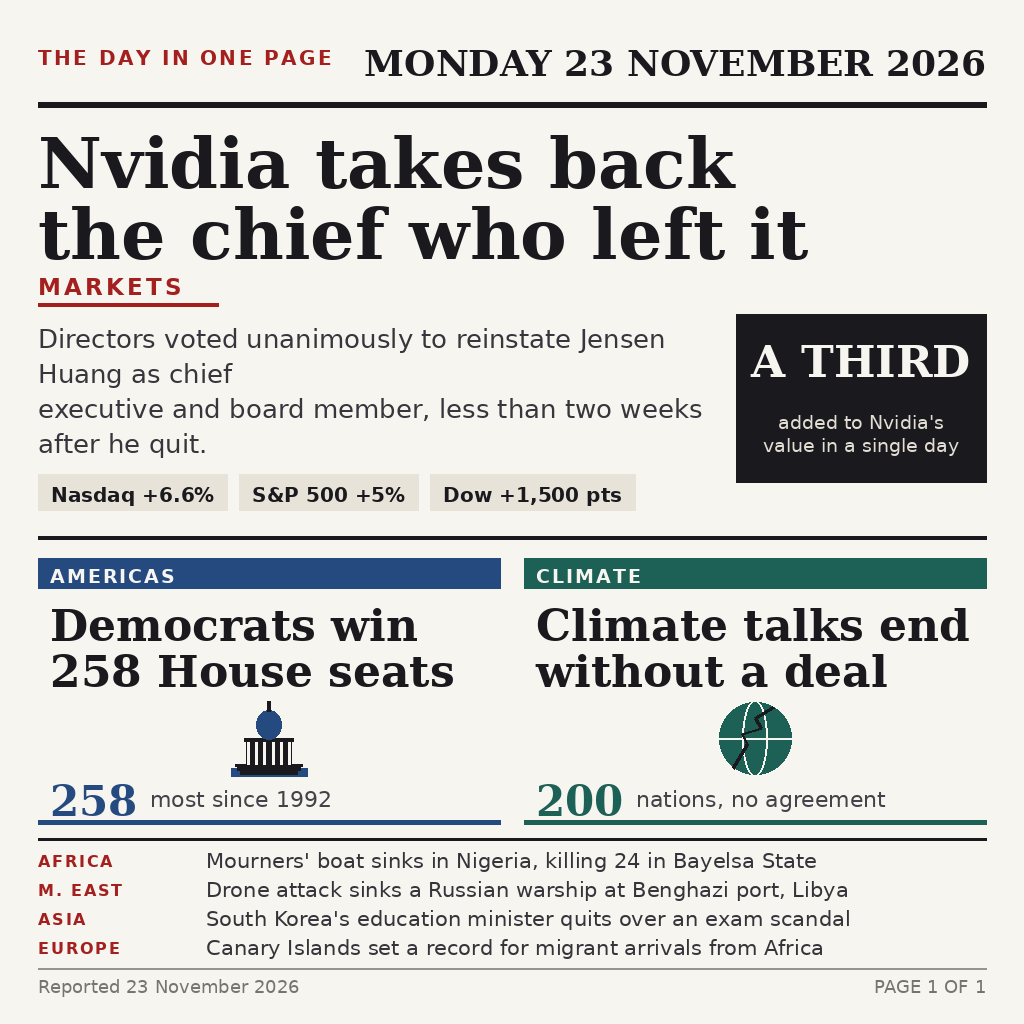
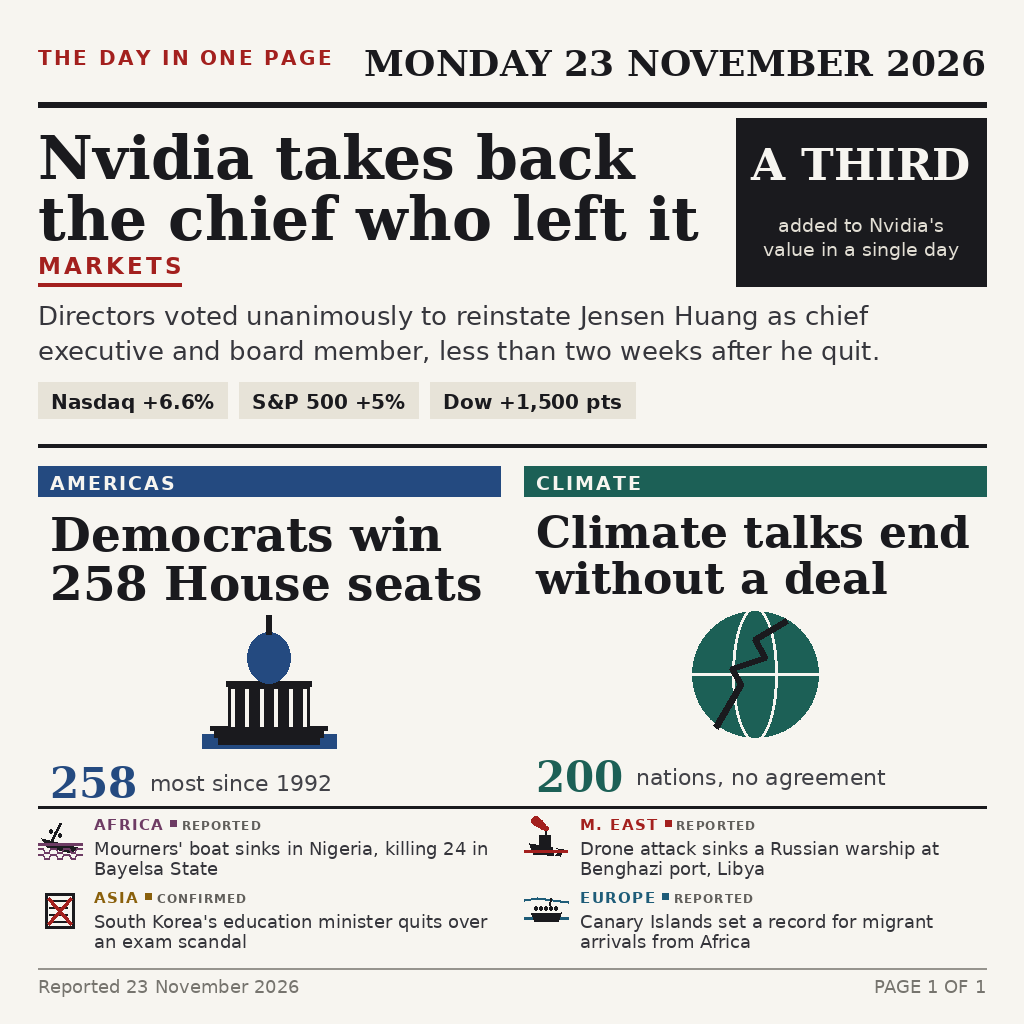
Illustrate the four briefs and rebalance the top band
Every brief now carries its own pictogram, and the boat, warship and
crossing marks were redrawn so they read as a sinking, a hull breach and
an overladen craft rather than as a generic vessel. The figure panel
moves up beside the lead headline, which closes the blank square in the
top-right corner and lets the body copy run the full measure. The
MARKETS underline is measured to its word instead of a fixed 180px.

Changed region(s): [[0.0312, 0.0938, 0.9688, 0.9375]]

diff --git a/render/page.py b/render/page.py
@@ -18,8 +18,9 @@ TINT = {
     "AMERICAS": BLUE,
     "CLIMATE": GREEN,
     "AFRICA": PLUM,
+    "M. EAST": RED,
     "MIDDLE EAST": RED,
-    "ASIA": GOLD,
+    "ASIA": (138, 96, 12),
     "EUROPE": (30, 92, 120),
     "EAST ASIA": GOLD,
     "SOUTH ASIA": (150, 78, 30),
@@ -53,7 +54,17 @@ def make():
     y += 20
 
     # ---------------- lead headline ----------------
-    f_lead = font(SERIFB, 70)
+    # The headline shares the top band with the figure panel, so it is set to
+    # the column that is left over rather than to the full measure.  That keeps
+    # the page's top-right corner working instead of leaving a blank square.
+    pan_w, pan_h = 250, 168
+    pan_x = W - M - pan_w
+    lead_w = pan_x - M - 28
+    ls = 70
+    while any(w(d, ln, font(SERIFB, ls)) > lead_w for ln in deck.LEAD["lines"]) and ls > 34:
+        ls -= 1
+    f_lead = font(SERIFB, ls)
+    lead_top = y
     for ln in deck.LEAD["lines"]:
         d.text((M, y), ln, font=f_lead, fill=INK)
         y += f_lead.size * 1.02
@@ -61,14 +72,13 @@ def make():
     y += 8
     f_kick = font(BOLD, 23)
     draw_caps(d, (M, y), deck.LEAD["kicker"], f_kick, RED, tracking=3.2)
-    rule(d, y + 31, x0=M, x1=M + 180, thick=3, fill=RED)
+    kick_w = caps(d, deck.LEAD["kicker"], f_kick, 3.2)
+    rule(d, y + 31, x0=M, x1=M + kick_w, thick=3, fill=RED)
 
     # ---------------- lead body + figure panel ----------------
-    body_top = y + 50
-    pan_w, pan_h = 250, 168
-    pan_x = W - M - pan_w
-    pan_y = body_top - 8
-
+    # The panel sits beside the headline, in the corner that was empty, and the
+    # body runs the full measure underneath both.
+    pan_y = lead_top - 4
     d.rectangle([pan_x, pan_y, pan_x + pan_w, pan_y + pan_h], fill=INK)
     fig_s = 54
     while w(d, deck.LEAD["figure"], font(SERIFB, fig_s)) > pan_w - 28 and fig_s > 26:
@@ -81,11 +91,11 @@ def make():
     block(d, (pan_x + 20, pan_y + 96), fl, f_fn, (226, 222, 212), lead=1.24, align="center", width=pan_w - 40)
 
     f_body = font(SANS, 26)
-    body_w = pan_x - M - 24
+    body_w = W - 2 * M
     body_lines = []
     for para in deck.LEAD["body"]:
         body_lines += wrap(d, para, f_body, body_w)
-    by = body_top
+    by = y + 48
     for ln in body_lines:
         d.text((M, by), ln, font=f_body, fill=(54, 54, 60))
         by += 35
@@ -106,8 +116,8 @@ def make():
 
     # ---------------- two cards, one row ----------------
     cw = (ix - GUT) // 2
-    art_h = 76
-    head_sz = 44
+    art_h = 134
+    head_sz = 48
     head_h = head_sz * 1.04 * 2
     card_h = 30 + 8 + head_h + 10 + art_h + 10 + 40
 
@@ -137,24 +147,66 @@ def make():
         fy = art_box[3] + 10
         f_num = font(SERIFB, 42)
         numw = w(d, card["figure"], f_num)
-        d.text((x0 + 12, fy - 10), card["figure"], font=f_num, fill=tint)
+        d.text((x0 + 12, fy), card["figure"], font=f_num, fill=tint)
         f_cap = font(SANS, 22)
         cl = wrap(d, card["line"], f_cap, cw - numw - 40)
-        block(d, (x0 + 24 + numw, fy), cl[:2], f_cap, (66, 66, 72), lead=1.12)
+        # the caption's first baseline is matched to the numeral's, not offset
+        block(d, (x0 + 24 + numw, fy + 12), cl[:2], f_cap, (66, 66, 72), lead=1.12)
 
-        d.rectangle([x0, y1 - 4, x1, y1], fill=tint)
+    y += card_h + 8
 
-    y += card_h + 14
-
-    # ---------------- briefs ----------------
+    # ---------------- briefs: two rows of two, each with its own mark -------
+    # Criterion 3 asks that a viewer who missed the day can tell what happened
+    # from the image alone, "each story clear from its picture and any short
+    # labels".  A bare line of grey text asks the reader to do all the work at
+    # 300px; a pictogram beside each line carries the story before the words do.
     rule(d, y, thick=2)
     y += 10
-    f_tag = font(BOLD, 16)
-    f_st = font(SANS, 21)
-    for tag, txt in deck.STRIP:
-        draw_caps(d, (M, y + 4), tag, f_tag, RED, tracking=1.8)
-        d.text((M + 168, y), txt, font=f_st, fill=(52, 52, 58))
-        y += 29
+
+    bw = (ix - GUT) // 2
+    art_side = 44
+    f_tag = font(BOLD, 15)
+    f_st = font(SANS, 18)
+    f_st_lead = 20
+    f_standing = font(BOLD, 12)
+    row_gap = 14
+
+    for i, (tag, art, txt, standing) in enumerate(deck.STRIP):
+        col = i % 2
+        if col == 0:
+            row_y = y
+        x0 = M + col * (bw + GUT)
+        tint = TINT.get(tag, INK)
+        by = row_y
+
+        # The mark takes a column of its own; beside it the desk name and its
+        # standing share one line, and the sentence runs under them.  Two lines
+        # of copy then fit in a row only as tall as the mark, which is what the
+        # space between the cards and the folio rule allows.
+        ART[art](d, [x0, by, x0 + art_side, by + art_side], tint)
+        text_x = x0 + art_side + 12
+        text_w = bw - art_side - 12
+        draw_caps(d, (text_x, by), tag, f_tag, tint, tracking=1.4)
+        tag_w = caps(d, tag, f_tag, 1.4)
+        d.rectangle([text_x + tag_w + 8, by + 4, text_x + tag_w + 14, by + 10], fill=tint)
+        draw_caps(d, (text_x + tag_w + 19, by + 2), standing, f_standing,
+                  (96, 94, 90), tracking=1.0)
+
+        lines = wrap(d, txt, f_st, text_w)
+        ty = by + 22
+        for ln in lines:
+            d.text((text_x, ty), ln, font=f_st, fill=(52, 52, 58))
+            ty += f_st_lead
+        text_bottom = ty - f_st_lead + 15
+
+        row_bottom = max(by + art_side, text_bottom + 2)
+        if col == 1:
+            y = row_bottom + row_gap
+
+    y -= row_gap - 2
+
+    # breathing room before the folio rule: 19px of slack stays unused
+    y += 16
 
     # ---------------- foot ----------------
     rule(d, FOOT_Y - 32, thick=1, fill=(150, 148, 142))

diff --git a/render/artwork.py b/render/artwork.py
@@ -62,23 +62,26 @@ def globe(d, box, tint):
 
 
 def boat(d, box, tint):
-    """A small boat heeling under a wave."""
+    """A boat heeling over, its bow already under the water."""
     x0, y0, x1, y1 = box
     w, h = x1 - x0, y1 - y0
-    hull = [(x0 + w * 0.10, y0 + h * 0.56), (x1 - w * 0.06, y0 + h * 0.52),
-            (x1 - w * 0.20, y0 + h * 0.74), (x0 + w * 0.26, y0 + h * 0.76)]
-    d.polygon(hull, fill=tint)
-    d.line([x0 + w * 0.16, y0 + h * 0.56, x1 - w * 0.12, y0 + h * 0.53],
-           fill=INK, width=max(2, int(h * 0.03)))
-    d.line([x0 + w * 0.40, y0 + h * 0.56, x0 + w * 0.44, y0 + h * 0.20],
-           fill=INK, width=max(3, int(w * 0.025)))
-    # figures in the boat
+    waterline = y0 + h * 0.64
+    # a hull tilted so the bow goes under: the deck line runs down into the water
+    hull = [(x0 + w * 0.08, y0 + h * 0.50), (x1 - w * 0.10, y0 + h * 0.70),
+            (x1 - w * 0.24, y0 + h * 0.84), (x0 + w * 0.22, y0 + h * 0.70)]
+    d.polygon(hull, fill=INK)
+    # the mast leans the same way the hull does
+    d.line([x0 + w * 0.34, y0 + h * 0.56, x0 + w * 0.50, y0 + h * 0.16],
+           fill=INK, width=max(3, int(w * 0.028)))
+    # figures crowd the high (stern) end, away from the water
     for i in range(3):
-        fx = x0 + w * (0.44 + i * 0.12)
-        _ell(d, [fx - w * 0.028, y0 + h * 0.34, fx + w * 0.028, y0 + h * 0.44], INK)
-    # wave crests
+        fx = x0 + w * (0.30 + i * 0.10)
+        fy = y0 + h * (0.30 + i * 0.045)
+        _ell(d, [fx - w * 0.030, fy, fx + w * 0.030, fy + h * 0.10], INK)
+    # the waterline cuts across the hull, so part of the boat is submerged
+    d.line([x0, waterline, x1, waterline], fill=tint, width=max(3, int(h * 0.045)))
     for row in range(2):
-        yy = y1 - h * (0.24 - row * 0.14)
+        yy = y1 - h * (0.22 - row * 0.13)
         pts = []
         for i in range(21):
             fx = x0 + (x1 - x0) * i / 20
@@ -87,23 +90,28 @@ def boat(d, box, tint):
 
 
 def ship(d, box, tint):
-    """A warship listing, with a smoke column."""
+    """A warship listing hard, holed at the waterline, with a smoke column."""
     x0, y0, x1, y1 = box
     w, h = x1 - x0, y1 - y0
-    hull = [(x0 + w * 0.14, y0 + h * 0.66), (x1 - w * 0.10, y0 + h * 0.58),
-            (x1 - w * 0.16, y0 + h * 0.76), (x0 + w * 0.22, y0 + h * 0.80)]
+    waterline = y0 + h * 0.80
+    # the hull is rotated: the bow rides up, the stern is going under
+    hull = [(x0 + w * 0.12, y0 + h * 0.62), (x1 - w * 0.10, y0 + h * 0.76),
+            (x1 - w * 0.18, y0 + h * 0.92), (x0 + w * 0.22, y0 + h * 0.86)]
     d.polygon(hull, fill=INK)
-    d.rectangle([x0 + w * 0.34, y0 + h * 0.42, x0 + w * 0.58, y0 + h * 0.66], fill=INK)
-    d.line([x0 + w * 0.50, y0 + h * 0.42, x0 + w * 0.50, y0 + h * 0.22],
+    d.rectangle([x0 + w * 0.36, y0 + h * 0.44, x0 + w * 0.60, y0 + h * 0.68], fill=INK)
+    d.line([x0 + w * 0.52, y0 + h * 0.44, x0 + w * 0.48, y0 + h * 0.22],
            fill=INK, width=max(2, int(w * 0.02)))
-    # smoke
+    # the breach: a notch blown out of the hull at the waterline
+    d.polygon([(x1 - w * 0.34, waterline - h * 0.10), (x1 - w * 0.20, waterline - h * 0.02),
+               (x1 - w * 0.30, waterline + h * 0.10)], fill=PAPER)
+    # smoke leans off the stern, so the plume reads as damage not exhaust
     for i in range(4):
-        r = w * (0.055 + i * 0.012)
-        cx = x0 + w * (0.52 + i * 0.085)
-        cy = y0 + h * (0.30 - i * 0.062)
+        r = w * (0.055 + i * 0.014)
+        cx = x0 + w * (0.50 - i * 0.075)
+        cy = y0 + h * (0.28 - i * 0.058)
         _ell(d, [cx - r, cy - r, cx + r, cy + r], tint)
-    # water
-    d.line([x0 + w * 0.04, y0 + h * 0.82, x1 - w * 0.04, y0 + h * 0.82], fill=tint, width=3)
+    # the waterline cuts the hull
+    d.line([x0 + w * 0.02, waterline, x1 - w * 0.02, waterline], fill=tint, width=3)
 
 
 def exam(d, box, tint):
@@ -119,16 +127,28 @@ def exam(d, box, tint):
 
 
 def crossing(d, box, tint):
-    """A small boat against a long coastline."""
+    """A packed boat low in the water, seen against a distant shore."""
     x0, y0, x1, y1 = box
     w, h = x1 - x0, y1 - y0
-    d.ellipse([x0, y1 - h * 0.30, x1, y1 + h * 0.30], fill=tint)
-    d.line([x0, y0 + h * 0.42, x1, y0 + h * 0.34], fill=INK, width=max(3, int(h * 0.035)))
-    # little boat
-    bx0 = x0 + w * 0.44
-    d.polygon([(bx0, y0 + h * 0.60), (bx0 + w * 0.20, y0 + h * 0.58),
-               (bx0 + w * 0.17, y0 + h * 0.70), (bx0 + w * 0.03, y0 + h * 0.71)], fill=INK)
-    d.line([bx0 + w * 0.09, y0 + h * 0.60, bx0 + w * 0.10, y0 + h * 0.46], fill=INK, width=3)
+    water = y0 + h * 0.66
+    # the far shore: a low, uneven horizon well above the waterline
+    d.line([x0, y0 + h * 0.26, x0 + w * 0.30, y0 + h * 0.20], fill=tint,
+           width=max(3, int(h * 0.05)))
+    d.line([x0 + w * 0.30, y0 + h * 0.20, x1, y0 + h * 0.30], fill=tint,
+           width=max(3, int(h * 0.05)))
+    # the open water
+    d.line([x0, water, x1, water], fill=tint, width=max(3, int(h * 0.05)))
+    # a low, overladen hull sitting *in* the water, not floating above it
+    hull = [(x0 + w * 0.16, water - h * 0.10), (x1 - w * 0.14, water - h * 0.13),
+            (x1 - w * 0.22, water + h * 0.08), (x0 + w * 0.24, water + h * 0.08)]
+    d.polygon(hull, fill=INK)
+    # heads crowded along the gunwale
+    for i in range(5):
+        fx = x0 + w * (0.28 + i * 0.11)
+        _ell(d, [fx - w * 0.035, water - h * 0.27, fx + w * 0.035, water - h * 0.17], INK)
+    # one raised arm, so it reads as people, not cargo
+    d.line([x0 + w * 0.60, water - h * 0.28, x0 + w * 0.62, water - h * 0.44],
+           fill=INK, width=max(2, int(h * 0.04)))
 
 
 ART = {"capitol": capitol, "globe": globe, "boat": boat,

diff --git a/render/deck.py b/render/deck.py
@@ -9,8 +9,8 @@ LEAD = {
     "kicker": "MARKETS",
     "lines": ["Nvidia takes back", "the chief who left it"],
     "body": [
-        "Directors voted unanimously to reinstate Jensen Huang as chief",
-        "executive and board member, less than two weeks after he quit.",
+        "Directors voted unanimously to reinstate Jensen Huang as chief executive "
+        "and board member, less than two weeks after he quit.",
     ],
     "figure": "A THIRD",
     "figure_note": "added to Nvidia's value in a single day",
@@ -36,10 +36,10 @@ CARDS = [
 ]
 
 STRIP = [
-    ("AFRICA", "Mourners' boat sinks in Nigeria, killing 24 in Bayelsa State"),
-    ("M. EAST", "Drone attack sinks a Russian warship at Benghazi port, Libya"),
-    ("ASIA", "South Korea's education minister quits over an exam scandal"),
-    ("EUROPE", "Canary Islands set a record for migrant arrivals from Africa"),
+    ("AFRICA", "boat", "Mourners' boat sinks in Nigeria, killing 24 in Bayelsa State", "REPORTED"),
+    ("M. EAST", "ship", "Drone attack sinks a Russian warship at Benghazi port, Libya", "REPORTED"),
+    ("ASIA", "exam", "South Korea's education minister quits over an exam scandal", "CONFIRMED"),
+    ("EUROPE", "crossing", "Canary Islands set a record for migrant arrivals from Africa", "REPORTED"),
 ]
 
 FOOT = "Reported 23 November 2026"
